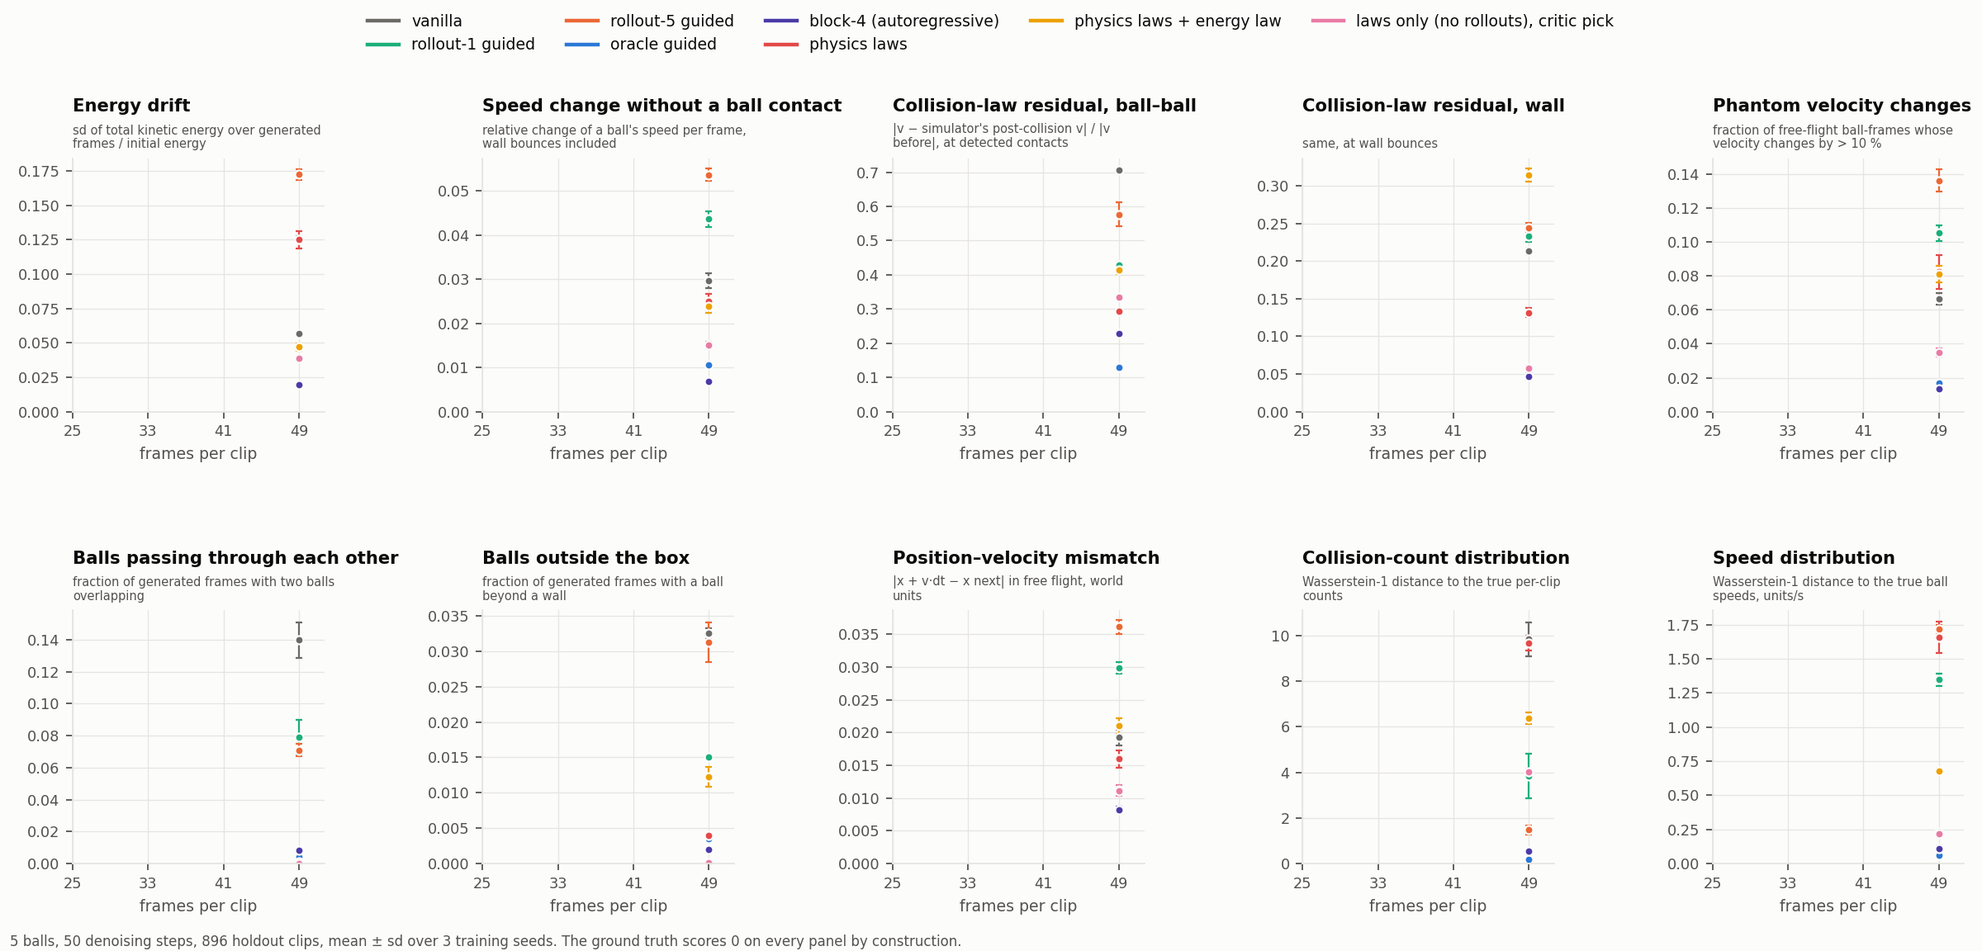
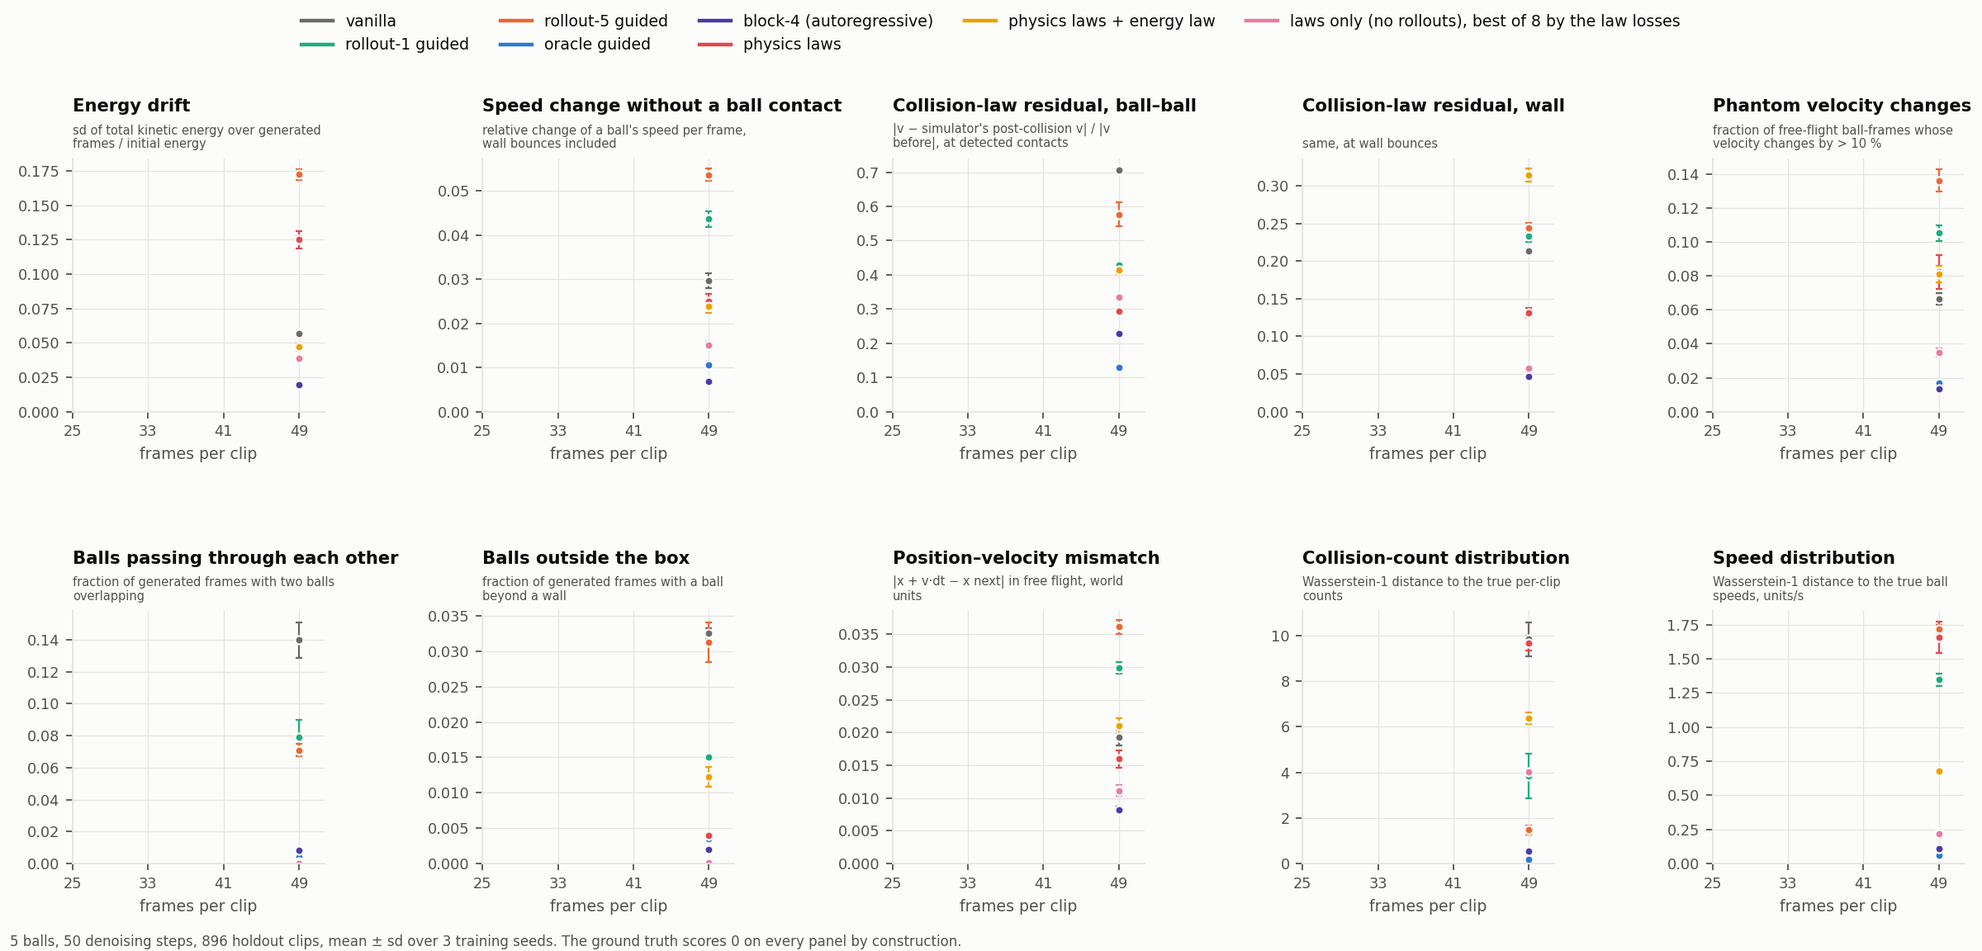
Clip-length comparison: no-selection figure becomes the main one
The main clip-length figure is now the version where no method keeps the
best of its eight tries, so every curve is the average of that cell's
tries; the best-of-eight version follows it. Both are drawn on the same
axes, and each shows the other condition as dashed partners for the full
law set and the two rollout targets, so either figure reads on its own.

Withdraw the claim that a rollout target is more accurate on the shortest
clips. It compared rollout-5's best of eight against the law set's single
try. On the same footing the full law set leads both rollout targets at
all four clip lengths, in both conditions.

Also: block 4 given the restarts fails the speed check at 49 frames when
its tries are averaged and passes it when the critic chooses, which the
page and report now say.

Changed region(s): [[0.1562, 0.0, 0.8438, 0.0625]]

diff --git a/index.html b/index.html
@@ -1692,7 +1692,7 @@
         </div>
       </div>
       <div class="reading-width report-content">
-        <p>Measured against methods run without restarts or repeated tries, this set looked like a clear win. It is not: give the rollout target the same restarts and the same repeated tries and most of the apparent win disappears. The comparison below does that for every method.</p>
+        <p>Measured against methods run without restarts or repeated tries, this set looked like a clear win. It is not: give the rollout target the same restarts and the same repeated tries and most of the apparent win disappears. The two figures below give every method the same settings, and differ only in whether each method keeps the best of its tries.</p>
         <p>This set has three parts, and only the first is guidance:</p>
         <ol>
           <li><strong>Geometry guidance.</strong> No overlaps, no crossings, inside the box; bounded per-element step, strength 3, plus the relative-velocity reflection law at weight 0.3, faded as it is satisfied, applied only when σ ≤ 0.35 and added without renormalising the geometry step. The reflection helper is worth 0.02; nothing else helps as a guide.</li>
@@ -1705,41 +1705,56 @@
         <p>The same laws are useful in a different role. Instead of guiding, they score finished clips, and the best-scoring one is kept. Nothing is being optimised against them, so there is nothing to game, and they rank clips well.</p>
       </div>
       <figure class="plot" id="guidance-laws-length">
-        <div class="figure-heading"><h3>Every method given the same restarts and the same repeated tries</h3><a href="assets/statebench-guidance/figures/matched_horizon.png" download>Download PNG <span aria-hidden="true">↓</span></a></div>
-        <img src="assets/statebench-guidance/figures/matched_horizon.png" alt="Local error against clip length. Every method gets the same restarts and repeated tries; block 4 appears a second time without them, and each guided method appears a second time scored on a single try. Block 4 run plainly is lowest at every length and the law curve is the flattest of the one-pass methods" width="1760" height="1120" loading="lazy">
-        <figcaption><span class="figure-number">Figure 40.</span> Every curve here got the three settings that only the law methods had before: 24 restarts from σ 0.45, and 8 tries per clip keeping the one its law critic scores best. The guided curves also run the model twice per denoising step. Their guidance strength was re-picked for these settings on the 128 calibration clips and came out at 0.3 for all three, not the 1 that won without restarts. Vanilla and block 4 have no guidance, so there is no correction to apply twice — the one setting they cannot match. <strong>Hollow markers lost more than 5% of the data's mean speed</strong>, so that error is partly bought by slowing the balls down instead of predicting better. Block 4 appears twice because these settings make it worse: the solid line is block 4 run plainly, which is its best setting and the comparison that matters, and the dotted line is block 4 given the same restarts and tries as everything else. Each guided method is drawn twice: solid for the clip its critic keeps out of eight tries, dashed for the average of those eight. The gap between a pair is what the selection buys, and it is similar for all three, so it is not a law-specific advantage. The law curves are the full law set, which beats the geometry-only set at every clip length.</figcaption>
+        <div class="figure-heading"><h3>Every method given the same restarts, with nothing selected</h3><a href="assets/statebench-guidance/figures/matched_noselect.png" download>Download PNG <span aria-hidden="true">&darr;</span></a></div>
+        <img src="assets/statebench-guidance/figures/matched_noselect.png" alt="Local error against clip length for seven methods. Every method gets the same restarts and none of them selects among its tries. Block 4 run plainly is lowest at every length; the full law set is the only guided curve that does not rise with length; both rollout targets carry hollow markers on the longer clips" width="1760" height="976" loading="lazy">
+        <figcaption><span class="figure-number">Figure 40.</span> Nothing is selected here. Each method generates eight clips per holdout clip from different starting noise, and the error is the average over all eight. Every method also gets 24 restarts from &sigma; 0.45, except block 4 run plainly, which gets none &mdash; that is block 4&rsquo;s best setting and the comparison that matters, so it is drawn solid and its restarted version dotted. The guided curves run the model twice per denoising step, at a guidance strength re-picked for these settings on the 128 calibration clips; it came out the same for all three targets, and lower than the strength that won without restarts. Vanilla and block 4 have no guidance, so there is no correction to apply twice &mdash; the one setting they cannot match. <strong>Hollow markers lost more than 5% of the data&rsquo;s mean speed</strong>, so that error is partly bought by slowing the balls down instead of predicting better. The dashed lines are the same three guided methods keeping the best of their eight tries instead of averaging over them; the distance from a solid line to its dashed partner is what that selection buys. The law curves are the full law set, which beats the geometry-only set at every clip length.</figcaption>
       </figure>
       <div class="wide-width report-content">
-        <div class="table-scroll" tabindex="0" role="region" aria-label="Five-step local error with every method given 24 restarts and 8 tries">
+        <div class="table-scroll" tabindex="0" role="region" aria-label="Five-step local error with every method given 24 restarts and no selection among tries">
           <table>
-            <thead><tr><th>Δx(5), 24 restarts + 8 tries for every method</th><th>25f</th><th>33f</th><th>41f</th><th>49f</th><th>25→49</th><th>keeps the data&rsquo;s speed?</th></tr></thead>
+            <thead><tr><th>&Delta;x(5), 24 restarts, nothing selected</th><th>25f</th><th>33f</th><th>41f</th><th>49f</th><th>25&rarr;49</th><th>keeps the data&rsquo;s speed?</th></tr></thead>
             <tbody>
-              <tr><td>oracle (positive control)</td><td>0.096</td><td>0.096</td><td>0.095</td><td>0.088</td><td>0.91×</td><td>every length</td></tr>
-              <tr><td><strong>block 4 (autoregressive)</strong></td><td><strong>0.237</strong></td><td><strong>0.261</strong></td><td><strong>0.267</strong></td><td><strong>0.276</strong></td><td>1.17×</td><td>every length</td></tr>
-              <tr><td><strong>full law set, repeated tries</strong> — the best we found</td><td><strong>0.293</strong></td><td><strong>0.285</strong></td><td><strong>0.286</strong></td><td><strong>0.278</strong></td><td><strong>0.95×</strong></td><td>every length</td></tr>
-              <tr><td>full law set, one try per clip</td><td>0.335</td><td>0.328</td><td>0.334</td><td>0.322</td><td>0.96×</td><td>every length</td></tr>
-              <tr><td>geometry laws only (superseded)</td><td>0.365</td><td>0.387</td><td>0.391</td><td>0.388</td><td>1.06×</td><td>every length</td></tr>
-              <tr><td>rollout-5 target</td><td>0.307</td><td>0.355</td><td>0.406</td><td>0.425</td><td>1.38×</td><td>no, from 41 frames</td></tr>
-              <tr><td>rollout-1 target</td><td>0.350</td><td>0.412</td><td>0.458</td><td>0.474</td><td>1.35×</td><td>no, from 33 frames</td></tr>
-              <tr><td>vanilla</td><td>0.556</td><td>0.638</td><td>0.653</td><td>0.661</td><td>1.19×</td><td>every length</td></tr>
-              <tr><td><strong>block 4 run plainly</strong>, no restarts and no tries</td><td><strong>0.233</strong></td><td><strong>0.239</strong></td><td><strong>0.233</strong></td><td><strong>0.223</strong></td><td>0.96×</td><td>every length</td></tr>
+              <tr><td>oracle (positive control)</td><td>0.098</td><td>0.097</td><td>0.096</td><td>0.089</td><td>0.91&times;</td><td>every length</td></tr>
+              <tr><td><strong>block 4 (autoregressive)</strong></td><td><strong>0.266</strong></td><td><strong>0.303</strong></td><td><strong>0.320</strong></td><td><strong>0.327</strong></td><td>1.23&times;</td><td>no, at 49 frames</td></tr>
+              <tr><td><strong>full law set</strong> &mdash; the best we found</td><td><strong>0.334</strong></td><td><strong>0.332</strong></td><td><strong>0.333</strong></td><td><strong>0.322</strong></td><td><strong>0.97&times;</strong></td><td>every length</td></tr>
+              <tr><td>rollout-5 target</td><td>0.345</td><td>0.414</td><td>0.478</td><td>0.498</td><td>1.44&times;</td><td>no, from 41 frames</td></tr>
+              <tr><td>rollout-1 target</td><td>0.409</td><td>0.489</td><td>0.530</td><td>0.537</td><td>1.31&times;</td><td>no, from 33 frames</td></tr>
+              <tr><td>vanilla</td><td>0.572</td><td>0.669</td><td>0.689</td><td>0.691</td><td>1.21&times;</td><td>every length</td></tr>
+              <tr><td><strong>block 4 run plainly</strong>, no restarts</td><td><strong>0.233</strong></td><td><strong>0.239</strong></td><td><strong>0.233</strong></td><td><strong>0.223</strong></td><td>0.96&times;</td><td>every length</td></tr>
             </tbody>
           </table>
         </div>
-        <p class="setup-note">896 holdout clips, mean over 3 seeds. Speed is the mean ball speed measured from the generated positions, divided by the truth&rsquo;s; a method that slows every ball down lowers the local error without predicting better, so a value below 0.95 disqualifies the number.</p>
+        <p class="setup-note">896 holdout clips, mean over 3 seeds and over 8 tries per clip. Speed is the mean ball speed measured from the generated positions, divided by the truth&rsquo;s; a method that slows every ball down lowers the local error without predicting better, so a value below 0.95 disqualifies the number.</p>
       </div>
-      <div class="reading-width report-content">
-        <figure class="plot" id="guidance-laws-onetry">
-        <div class="figure-heading"><h3>The same comparison again, with the best-of-eight pick removed</h3><a href="assets/statebench-guidance/figures/matched_horizon_onetry.png" download>Download PNG <span aria-hidden="true">↓</span></a></div>
-        <img src="assets/statebench-guidance/figures/matched_horizon_onetry.png" alt="The previous comparison redrawn with no selection: every curve is the average of its eight tries. Block 4 run plainly is still lowest, and both rollout targets carry hollow markers on the longer clips" width="1760" height="992" loading="lazy">
-        <figcaption><span class="figure-number">Figure 41.</span> The previous figure with one thing changed: no method keeps the best of its eight tries, and every curve is the average of all eight instead. Same restarts, same corrections per step, same guidance strengths, same axes. Block 4 run plainly is the only curve unaffected, since it never had tries to pick from.</figcaption>
+      <figure class="plot" id="guidance-laws-bon8">
+        <div class="figure-heading"><h3>The same comparison with every method keeping the best of its eight tries</h3><a href="assets/statebench-guidance/figures/matched_bon8.png" download>Download PNG <span aria-hidden="true">&darr;</span></a></div>
+        <img src="assets/statebench-guidance/figures/matched_bon8.png" alt="The previous comparison with one setting changed: every method now keeps the clip its law critic scores best out of eight tries. Every curve drops, the ordering barely moves, and block 4 given the restarts no longer carries a hollow marker" width="1760" height="976" loading="lazy">
+        <figcaption><span class="figure-number">Figure 41.</span> Figure 40 with one setting changed: every method now keeps the clip its law critic scores best out of its eight tries, rather than averaging over them. The critic scores a finished clip on three of the laws &mdash; position-only free flight, speed constancy outside contacts, and total momentum outside wall contacts &mdash; fixed in advance on a separate run. Same restarts, same corrections per denoising step, same guidance strengths, same axes as Figure 40, and the dashed lines are Figure 40&rsquo;s averages. Block 4 run plainly is the only curve that does not move, since it has no tries to choose from.</figcaption>
       </figure>
-      <div class="reading-width report-content">
-        <p>Removing the selection costs every method something, and it costs them similar amounts, so the ordering barely moves. The full law set and block 4 given the same restarts still finish level on the longest clips, and block 4 run plainly is still clearly ahead of both. What the selection was worth is the gap between each pair of lines across the two figures, and no method gains a decisive advantage from it.</p>
-        <p>One thing does change. Block 4 given the restarts now fails the speed check at the longest clip length, which it passed when the critic was choosing for it. Picking the best of eight was partly repairing the damage the restarts do to it — more evidence that the restarts are the wrong setting for that model, and that its plain run is the number worth comparing against.</p>
+      <div class="wide-width report-content">
+        <div class="table-scroll" tabindex="0" role="region" aria-label="Five-step local error with every method given 24 restarts and keeping the best of eight tries">
+          <table>
+            <thead><tr><th>&Delta;x(5), 24 restarts, best of 8 tries</th><th>25f</th><th>33f</th><th>41f</th><th>49f</th><th>25&rarr;49</th><th>keeps the data&rsquo;s speed?</th></tr></thead>
+            <tbody>
+              <tr><td>oracle (positive control)</td><td>0.096</td><td>0.096</td><td>0.095</td><td>0.088</td><td>0.91&times;</td><td>every length</td></tr>
+              <tr><td><strong>block 4 (autoregressive)</strong></td><td><strong>0.237</strong></td><td><strong>0.261</strong></td><td><strong>0.267</strong></td><td><strong>0.276</strong></td><td>1.17&times;</td><td>every length</td></tr>
+              <tr><td><strong>full law set</strong> &mdash; the best we found</td><td><strong>0.293</strong></td><td><strong>0.285</strong></td><td><strong>0.286</strong></td><td><strong>0.278</strong></td><td><strong>0.95&times;</strong></td><td>every length</td></tr>
+              <tr><td>geometry laws only (superseded)</td><td>0.365</td><td>0.387</td><td>0.391</td><td>0.388</td><td>1.06&times;</td><td>every length</td></tr>
+              <tr><td>rollout-5 target</td><td>0.307</td><td>0.355</td><td>0.406</td><td>0.425</td><td>1.38&times;</td><td>no, from 41 frames</td></tr>
+              <tr><td>rollout-1 target</td><td>0.350</td><td>0.412</td><td>0.458</td><td>0.474</td><td>1.35&times;</td><td>no, from 33 frames</td></tr>
+              <tr><td>vanilla</td><td>0.556</td><td>0.638</td><td>0.653</td><td>0.661</td><td>1.19&times;</td><td>every length</td></tr>
+              <tr><td><strong>block 4 run plainly</strong>, no restarts and no tries</td><td><strong>0.233</strong></td><td><strong>0.239</strong></td><td><strong>0.233</strong></td><td><strong>0.223</strong></td><td>0.96&times;</td><td>every length</td></tr>
+            </tbody>
+          </table>
+        </div>
+        <p class="setup-note">896 holdout clips, mean over 3 seeds.</p>
       </div>
-
-      <h4>What the full law set actually does</h4>
+      <div class="reading-width report-content">
+        <p>Keeping the best of eight helps every method, and helps them by similar amounts, so the ordering barely changes. Whatever the critic is picking up on is not specific to the law-guided model. The full law set and block 4 given the same restarts finish level on the longest clips either way, and block 4 run plainly stays clearly ahead of both.</p>
+        <p>One thing does change. Block 4 given the restarts fails the speed check at the longest clip length when its eight tries are averaged, and passes it when the critic chooses one. The selection is partly repairing what the restarts do to that model &mdash; more evidence that the restarts are the wrong setting for it, and that its plain run is the number worth comparing against.</p>
+      </div>
+      <div class="reading-width report-content">
+        <h4>What the full law set actually does</h4>
         <p>At every denoising step the model produces its current guess at the finished clip. Ten laws are evaluated on that guess, each one an equation the true motion satisfies exactly, and the guess is nudged toward satisfying them. Nothing simulates the motion forward at any point.</p>
         <p>Write \(p_t^b\) and \(v_t^b\) for the position and velocity of ball \(b\) at frame \(t\) in the current guess, \(\Delta t\) for the frame interval, \(r\) for the ball radius, and \(\rho_t^{ij} = p_t^i - p_t^j\) for the vector between a pair of balls. Every law is written on one interval, from frame \(t-1\) to frame \(t\), and averaged over balls or pairs and over the generated frames.</p>
 
@@ -1791,16 +1806,16 @@
           \[ \alpha_k = w_k\,\frac{L_k}{\lVert \nabla L_k \rVert^2}, \qquad \text{correction} = \alpha_k \nabla L_k, \]
         </div>
         <p>capped so one law cannot dominate a step. The per-law corrections are then added. This happens twice per denoising step.</p>
-        <p>Two things sit on top and are not guidance: the finished clip is partly re-noised and denoised again twenty-four times, and several clips are generated with three of the laws used to score them and the best kept. Both help any method, which is what the comparison below controls for.</p>
+        <p>Two things sit on top and are not guidance: the finished clip is partly re-noised and denoised again twenty-four times, and several clips are generated with three of the laws used to score them and the best kept. Both help any method, which is what the comparison above controls for.</p>
 
         <h4>Most of the apparent win came from the extra sampling work</h4>
         <p>The geometry law set looked far better than the rollout target, but the rollout target had been run without restarts or repeated tries. Give it both and almost all of that difference disappears. Those two settings help any guidance, and they help the unguided model most of all. The full law set does open a genuine gap over the rollout target, and that gap comes from the laws, because both methods now get the same sampling.</p>
-        <h4>On the shortest clips the rollout target is more accurate</h4>
-        <p>On the shortest clips the rollout target is ahead of the best law set, and its samples still move at the right speed there, so that lead is real. The law set takes over on longer clips. On the two longest, the rollout target has started slowing the balls down, so its numbers there do not count at all.</p>
+        <h4>The full law set beats both rollout targets at every clip length</h4>
+        <p>It does so whether each method averages its eight tries or keeps the best of them, and the margin widens as clips get longer. The rollout targets also start slowing the balls down on the longer clips, so their numbers there do not count at all, while the law set keeps the data&rsquo;s speed everywhere.</p>
         <h4>Law guidance is the only guidance whose error stops growing with clip length</h4>
         <p>The best law set&rsquo;s error is the same at the longest clip length as at the shortest, and slightly lower. Every other guided method gets worse as clips lengthen, and so does block 4 once it is given the restarts. The law set also keeps the data&rsquo;s speed at every length, so this is not the slow-sample effect. It behaves the same way with a single try as with repeated tries, so it comes from the laws and not from picking the best of several clips.</p>
         <h4>Given the same sampling, law guidance matches generating in order</h4>
-        <p>On the longest clips the best law set and block 4 reach the same five-step error, within the spread across training seeds, and the law set is ahead on the one-step error. The two cross: block 4 leads on short clips and loses that lead on long ones, because the restarts make block 4 worse as clips lengthen while the law set holds steady.</p>
+        <p>On the longest clips the best law set and block 4 given the same restarts reach the same five-step error, within the spread across training seeds, and the law set is ahead on the one-step error. Without the selection, block 4&rsquo;s number at that length is disqualified by the speed check as well. The two cross: block 4 leads on short clips and loses that lead on long ones, because the restarts make block 4 worse as clips lengthen while the law set holds steady.</p>
         <p>That tie depends on holding block 4 to settings that damage it. A restart re-noises a finished clip and regenerates it block by block, which breaks the agreement between neighbouring blocks that makes block 4 work. Run without restarts it is ahead on both errors, and the law-guided model cannot match it there because it needs the restarts to reach its own best result. So: equalise the sampling and the two tie; let each method use the settings that suit it and generating in order still wins.</p>
         <h4>The first law set&rsquo;s improving curve came from slower balls</h4>
         <p>The first law set, the one with the differentiable simulator, appeared to get <em>better</em> on longer clips. Its balls also move progressively slower than real ones as clips lengthen. The error measures how far a ball has drifted from where it should be, and a slower ball drifts less, so the error falls without the prediction improving. That curve is not evidence of anything and is no longer plotted.</p>
